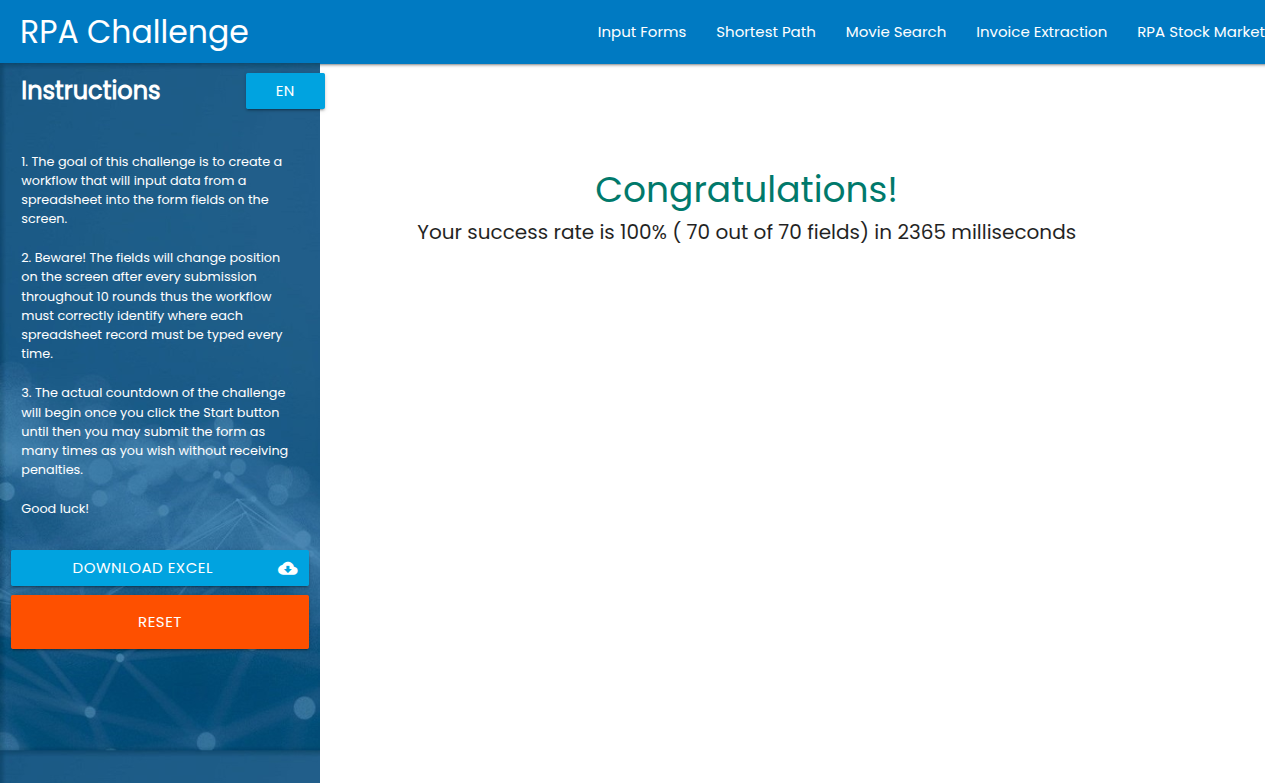
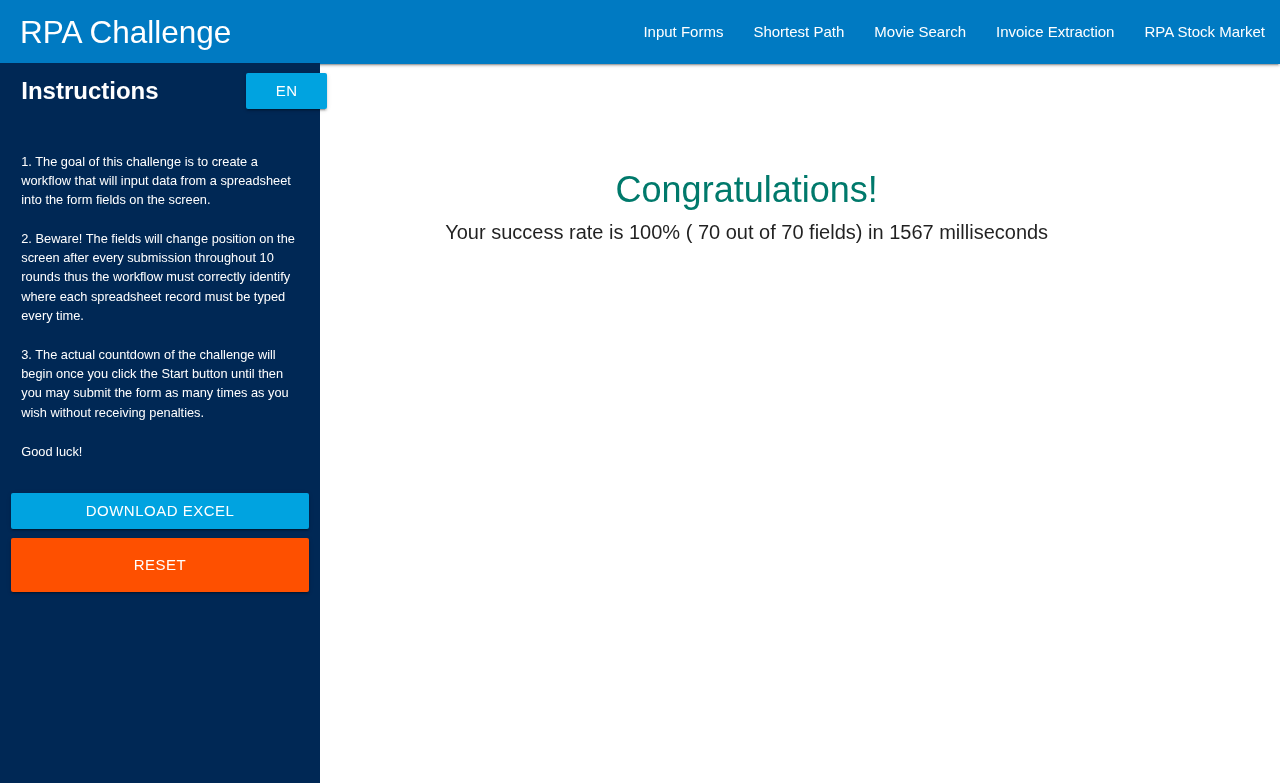
fix(perf): increase navigation timeout, block only images/fonts, keep tight element waits

diff --git a/src/automation.py b/src/automation.py
@@ -9,8 +9,10 @@ Approach:
 
 from __future__ import annotations
 
+import json
 import logging
 import time
+from pathlib import Path
 from typing import Dict
 
 from playwright.sync_api import BrowserContext, Page, sync_playwright
@@ -33,8 +35,8 @@ FIELD_MAP: Dict[str, str] = {
 
 def _enable_perf_routes(context: BrowserContext) -> None:
     """Block non-essential resources to speed things up."""
-    # Abort images, media, fonts, stylesheets to reduce bandwidth/render time.
-    block_types = {"image", "media", "font", "stylesheet"}
+    # Abort images, media, fonts to reduce bandwidth/render time.
+    block_types = {"image", "media", "font"}
 
     def _route(route):
         if route.request.resource_type in block_types:
@@ -79,20 +81,49 @@ def run_rpa_challenge(file_path: str, headless: bool = False, perf_mode: bool = 
             page.set_default_timeout(4000)
 
         log.info("Navigating to rpachallenge.com ...")
-        page.goto("https://rpachallenge.com/", wait_until="domcontentloaded")
+        try:
+            page.goto("https://rpachallenge.com/", wait_until="domcontentloaded", timeout=15000)
+        except Exception:
+            # One quick retry if first attempt was slow
+            page.goto("https://rpachallenge.com/", wait_until="domcontentloaded", timeout=20000)
 
         # Start the timed challenge
         page.get_by_role("button", name="Start").click()
 
+        round_timeout = 5000 if perf_mode else 10000
+
         start = time.perf_counter()
         for idx, row in enumerate(rows, start=1):
-            _wait_form_ready(page, timeout_ms=4000 if perf_mode else 10000)
-            _fill_round(page, row, timeout_ms=4000 if perf_mode else 10000)
+            _wait_form_ready(page, timeout_ms=round_timeout)
+            _fill_round(page, row, timeout_ms=round_timeout)
             log.debug("Submitted round %d", idx)
 
         # Proof & result capture
         page.screenshot(path="screenshots/result.png", full_page=True)
         elapsed = time.perf_counter() - start
+
+        # ensure folder exists before writing artifacts
+        Path("screenshots").mkdir(exist_ok=True)
+
+        # one-line summary that shows even when perf mutes INFO logs
+        summary = (
+            f"OK: rounds={len(rows)} elapsed={elapsed:.3f}s headless={headless} perf={perf_mode}"
+        )
+        (log.warning if perf_mode else log.info)(summary)
+
+        # write a tiny run report for CI/manual verification
+        with open("screenshots/run_summary.json", "w") as f:
+            json.dump(
+                {
+                    "ok": True,
+                    "rounds": len(rows),
+                    "elapsed_sec": round(elapsed, 3),
+                    "headless": headless,
+                    "perf": perf_mode,
+                },
+                f,
+                indent=2,
+            )
 
         # Try to log the result text if present
         try:
